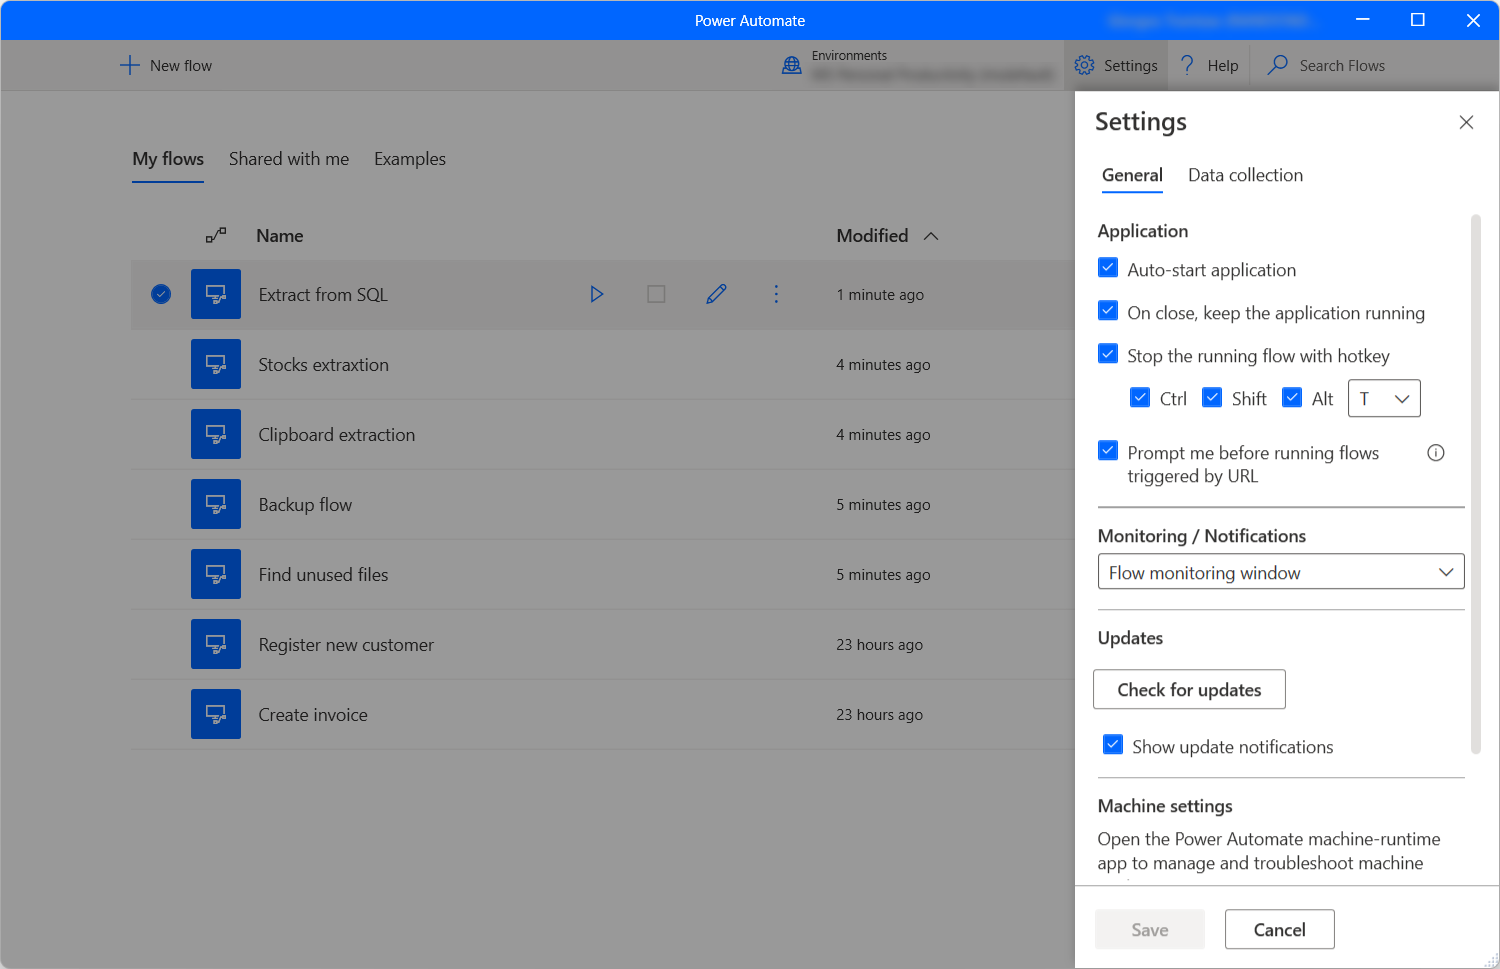
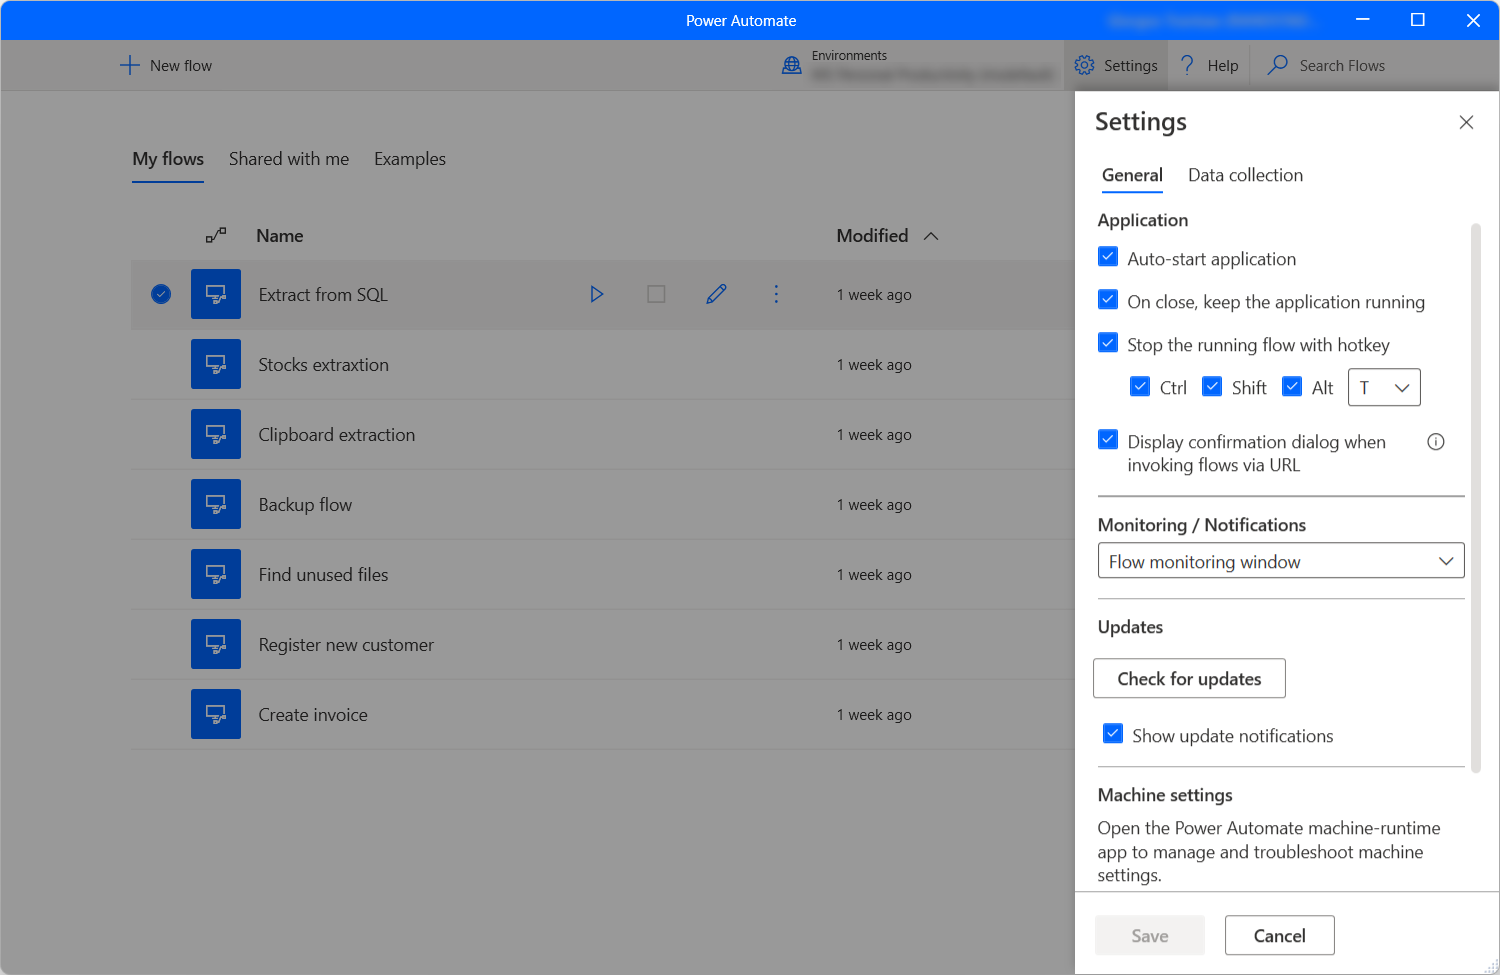
Updated content regarding protocol handler

diff --git a/articles/desktop-flows/run-pad-flow.md b/articles/desktop-flows/run-pad-flow.md
@@ -209,15 +209,15 @@ Some of your desktop flows might run for long durations, for example more than 2
 
    - Restart the service on your device.
 
-## Run desktop flows using external links
+## Run desktop flows via console run URLs
 
-Power Automate, apart from triggering flows through the console, flow designer and cloud flows, enables you to run desktop flows using external links.
+Power Automate, apart from triggering flows through the console, flow designer and cloud flows, enables you to run desktop flows using console run URLs.
 
-You can use the external links in browsers, the Run application, and the Command Prompt to trigger specified flows. If a triggered flow requires input variables, the console will ask you to populate the appropriate values.
+You can use URLs to trigger desktop flows through many different sources, such as browsers, the Windows Run application, and the Command Prompt. If a triggered flow requires input variables, the console will ask you to populate the appropriate values.
 
-By default, Power Automate always prompts you to confirm the triggering of a desktop flow through an external link. To disable this functionality, navigate to the console settings and disable the option **Prompt me before running flows triggered by URL**.
+By default, Power Automate always prompts you to confirm the triggering of a desktop flow via a URL. To disable this functionality, navigate to the console settings and disable the option **Display confirmation dialog when invoking flows via URL**.
 
-![Screenshot of the Prompt me before running flows triggered by URL option in the console settings.](media/run-flow-external-link/external-links-console-settings.png)
+![Screenshot of the Prompt me before running flows triggered by URL option in the console settings.](media/run-flow-url/console-run-url-console-settings.png)
 
 ### Prerequisites 
 
@@ -225,9 +225,9 @@ By default, Power Automate always prompts you to confirm the triggering of a des
 - The user must be signed in.
 - The user needs a trial or paid organization subscription or a pay-as-you-go environment.
 
-### Create an external link
+### Create a console run URL 
 
-To generate an external link that triggers a desktop flow, use one of the following formats:
+To generate a URL that triggers a desktop flow, use one of the following formats:
 
 ```
 "ms-powerautomate:/console/flow/run?workflowName=[workflowName]"
@@ -246,28 +246,28 @@ To generate an external link that triggers a desktop flow, use one of the follow
 ``` 
 
 >[!Important]
-> If a flow is already running, it won't run again when the external link attempts to trigger it.
+> If a flow is already running, it won't run again when the URL is invoked.
 
 The first two formats don't define a specific environment, so Power Automate automatically uses the currently selected console environment. The command will be neglected if both flow ID and flow name aren't specified.
 
-If the console is set to another environment than the one specified in the link, the console environment will automatically change.
+If the console is set to another environment than the one specified in the URL, the console environment will automatically change.
 
 ### Find environment and desktop flow IDs
 
 To find the ID of an environment, navigate to the [Power Automate portal](https://flow.microsoft.com/) and select the desired environment. Then, navigate to the **My flows** tab and copy the environment ID from the address line. 
 
-![Screenshot of the environment ID in the address line.](media/run-flow-external-link/find-environment-id.png)
+![Screenshot of the environment ID in the address line.](media/run-flow-url/find-environment-id.png)
 
 To find the ID of a desktop flow, navigate to the **My flows** tab of the [Power Automate portal](https://flow.microsoft.com/), select the desired flow, and copy its ID from the address line. 
 
-![Screenshot of the desktop flow ID in the address line.](media/run-flow-external-link/find-desktop-flow-id.png)
+![Screenshot of the desktop flow ID in the address line.](media/run-flow-url/find-desktop-flow-id.png)
 
-### Use an external link in the Command Prompt 
+### Use a console run URL in the Command Prompt 
 
 To trigger a flow using the Command Prompt, use a command with the following syntax:
 
 >[!NOTE]
-> You can replace the second part of the command with any of the previously presented external link formats.
+> You can replace the second part of the command with any of the previously presented external URL formats.
 
 ```
 "C:\Program Files (x86)\Power Automate Desktop\PAD.Console.Host.exe" "ms-powerautomate:/console/flow/run?workflowName=[workflowName]"

diff --git a/articles/desktop-flows/console.md b/articles/desktop-flows/console.md
@@ -54,7 +54,7 @@ Under the **Application** category, select whether Power Automate should launch 
 
 Using the **Monitoring/Notifications** drop-down menu, you can choose whether Power Automate will display integrated Windows notifications, a custom monitoring window, or no notifications at all. To find more information regarding Power Automate notifications, refer to [Runtime notifications](run-pad-flow.md#runtime-notifications).
 
-By default, Power Automate always prompts you to confirm the triggering of a desktop flow through an external link. The **Prompt me before running flows triggered by URL** option allows you to disable this functionality. You can find more information about external links in [Run desktop flows using external links](run-pad-flow.md#run-desktop-flows-using-external-links).  
+By default, Power Automate always prompts you to confirm the triggering of a desktop flow via a URL. The **Display confirmation dialog when invoking flows via URL** option allows you to disable this functionality. You can find more information about external links in [Run desktop flows via console run URL](run-pad-flow.md#run-desktop-flows-via-console-run-url).  
 
 To decide whether Microsoft may collect diagnostic data to improve user experience, navigate to the **Data collection** settings tab. 
 

diff --git a/articles/desktop-flows/governance.md b/articles/desktop-flows/governance.md
@@ -173,7 +173,19 @@ You can use the following registry entry to configure how Power Automate for des
 - **1**: Power Automate for desktop will display notifications through the flow monitoring window.
 - **2**: Power Automate for desktop will use the integrated Windows notifications.
 - **3**: Power Automate for desktop won't display notifications.
- 
+
+
+## Disable confirmation when invoking Power Automate desktop flows via URL
+
+You can use the following registry entry to allow Power Automate for desktop to display a confirmation dialog when invoking desktop flows via URL.
+
+|Hive|Key|Name|Type|
+|---|---|---|---|
+|HKEY_CURRENT_USER|SOFTWARE\Microsoft\Power Automate Desktop|EnableAskBeforeRunningAFlowExternally|DWORD|
+
+***Value***
+
+- **0**: Power Automate for desktop won't display a confirmation dialog when invoking desktop flows via URL.
  
 ## Learn more
 
